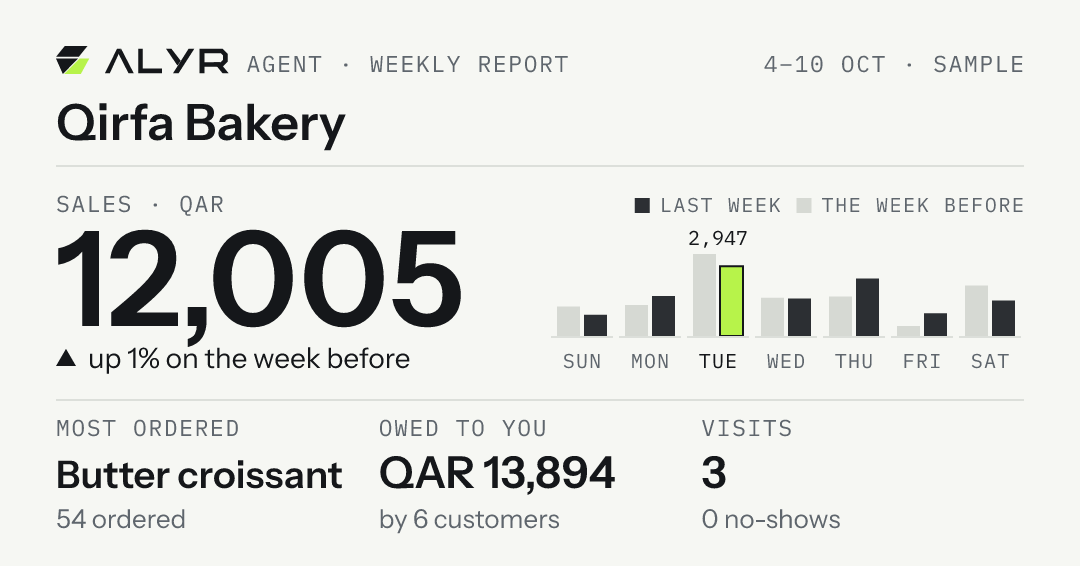
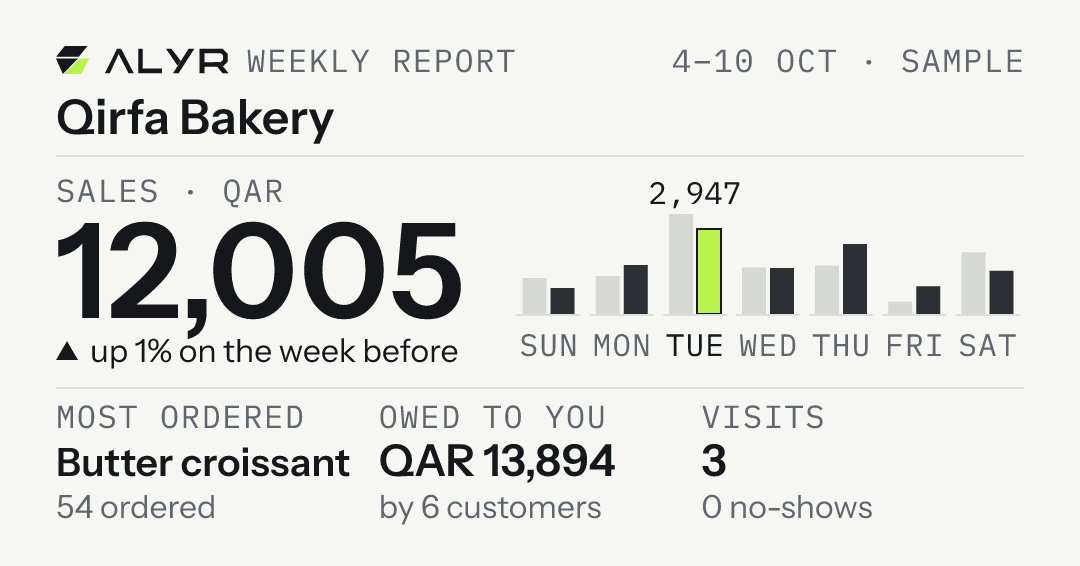
ALY-99 report card 5: readable at WhatsApp's bubble size
Every small label and sub-line about 40% larger (31 px minimum, about 9.5 px at
330 px wide), the layout re-flowed, the legend dropped, labels shortened,
Arabic day initials, Arabic widths measured as joined letters. The hero is
unchanged. Samples recaptured; a test holds the minimum size.

Changed region(s): [[0.0306, 0.1802, 0.9472, 0.9311], [0.6111, 0.0901, 0.9472, 0.1502], [0.2139, 0.0901, 0.5194, 0.1502]]

diff --git a/apps/api/src/alyr/modules/agent/card.py b/apps/api/src/alyr/modules/agent/card.py
@@ -27,6 +27,9 @@ from xml.sax.saxutils import escape
 FONTS = Path(__file__).parent / "fonts"
 W, H = 1080, 566
 M = 56  # the side margin
+# The smallest type on the card. WhatsApp shows the card about 330 px wide on a phone, so
+# 31 px here is about 9.5 px there (the founder, 17 Oct: nothing smaller is readable).
+SMALL = 31
 
 SANS = "Instrument Sans"
 ARABIC = "IBM Plex Sans Arabic"
@@ -52,6 +55,7 @@ THEMES = {
 
 RLE, LRE, PDF = "\u202b", "\u202a", "\u202c"
 _ARABIC = re.compile(r"[-ۿ]")
+ARABIC_JOINED = 0.86
 _RANGE = re.compile(r"\d+\s?[–-]\s?\d+")
 
 # The ALYR logo, point for point from `apps/web/app/_site/brand.tsx` (never redrawn).
@@ -85,8 +89,8 @@ def _font(family: str, weight: int):
 
 
 def width(text: str, family: str, size: float, weight: int = 400, spacing: float = 0) -> float:
-    """The advance width of a line, close enough to fit it: unshaped advances, so Arabic
-    is measured from its letters' base forms."""
+    """The advance width of a line, close enough to fit it: unshaped advances, with Arabic
+    letters scaled to their joined width."""
     metrics, cmap, upem = _font(family, 600 if weight >= 600 and (family, 600) in FILES
                                 else 400)
     total = 0
@@ -94,7 +98,11 @@ def width(text: str, family: str, size: float, weight: int = 400, spacing: float
         if ch in (RLE, LRE, PDF, "\u200f"):
             continue
         glyph = cmap.get(ord(ch))
-        total += metrics[glyph][0] if glyph in metrics else upem * 0.55
+        advance = metrics[glyph][0] if glyph in metrics else upem * 0.55
+        # Joined Arabic letters are narrower than their isolated forms: measured against
+        # resvg's own rendering, 0.66 to 0.84 of the isolated width. 0.86 keeps every
+        # estimate on the wide side, so a line never overflows.
+        total += advance * ARABIC_JOINED if _ARABIC.match(ch) else advance
     return total * size / upem + spacing * max(len(text) - 1, 0)
 
 
@@ -191,14 +199,14 @@ class Canvas:
 
 
 def _label(c: Canvas, x: float, y: float, s: str, room: float, anchor: str = "start",
-           size: float = 23) -> None:
+           size: float = SMALL + 1) -> None:
     """A small label: mono capitals, tracked, in English; Plex Sans Arabic, never tracked or
-    in capitals, in Arabic (brand.md)."""
+    in capitals, in Arabic (brand.md). Never smaller than `SMALL`: past that it is cut."""
     if c.rtl:
-        s, size = fit(s, ARABIC, size + 2, 18, room)
+        s, size = fit(s, ARABIC, size + 1, SMALL, room)
         c.text(x, y, s, size, c.t["ink2"], family=ARABIC, anchor=anchor)
     else:
-        s, size = fit(s.upper(), MONO, size, 16, room, spacing=1.6)
+        s, size = fit(s.upper(), MONO, size, SMALL, room, spacing=1.6)
         c.text(x, y, s, size, c.t["ink2"], family=MONO, anchor=anchor, spacing=1.6)
 
 
@@ -215,49 +223,40 @@ def svg(data: dict, theme: str = "carbon", sample: bool = False) -> str:
     week = data["week"] if rtl else data["week"].upper()
     if sample:
         week = f"{week} · عيّنة" if rtl else f"{week} · SAMPLE"
-    _label(c, W - M, 72, week, 330, anchor="end")
-    _label(c, M + logo_w + 18, 72, data["eyebrow"], W - 2 * M - logo_w - 360)
+    _label(c, W - M, 72, week, 420, anchor="end")
+    _label(c, M + logo_w + 18, 72, data["eyebrow"], W - 2 * M - logo_w - 440)
 
     # The shop's name.
-    name, size = fit(data["shop"], face, 50, 30, W - 2 * M, weight=600)
-    c.text(M, 140, name, size, t["ink"], weight=600, family=face)
-    c.line(M, 166, W - M, t["rule"])
+    name, size = fit(data["shop"], face, 48, 34, W - 2 * M, weight=600)
+    c.text(M, 134, name, size, t["ink"], weight=600, family=face)
+    c.line(M, 156, W - M, t["rule"])
 
     # The hero number, its unit and its change.
     hero = data["hero"]
-    left_room = 440
+    left_room = 430
     label = f"{hero['label']} · {hero['unit']}" if hero["unit"] else hero["label"]
-    _label(c, M, 212, label, left_room)
+    _label(c, M, 202, label, left_room)
     value, size = fit(hero["value"], SANS, 132, 72, left_room, weight=600)
-    c.text(M, 326, value, size, t["ink"], family=SANS, weight=600)
+    c.text(M, 318, value, size, t["ink"], family=SANS, weight=600)
     change = hero["change"]
     x = M
     if change["dir"] in ("up", "down"):
-        c.triangle(M, 366, 20, change["dir"] == "up", t["ink"])
-        x = M + 32
-    words, size = fit(change["text"], face, 28, 20, left_room - (x - M))
-    c.text(x, 368, words, size, t["ink"] if change["dir"] else t["ink2"], family=face)
+        c.triangle(M, 360, 22, change["dir"] == "up", t["ink"])
+        x = M + 34
+    # The change may run to the bars' edge.
+    words, size = fit(change["text"], face, SMALL + 1, SMALL, 506 - x)
+    c.text(x, 362, words, size, t["ink"] if change["dir"] else t["ink2"], family=face)
 
-    # Seven days, Sunday first, the week before as a ghost beside each bar.
+    # Seven days, Sunday first, the week before as a ghost beside each bar. No legend: at
+    # a phone's size it would be too small to read; the template's text says it.
     days = data["days"]
-    area_x, area_w = 548, W - M - 548
-    top, base = 254, 336
+    area_x = 512
+    area_w = W - M - area_x
+    top, base = 214, 314
     if days:
-        legend_y = 212
-        sw = 15
-        # Legend at the end of the line: this week's swatch, then the week before's.
-        before = data["legend"]["before"]
-        this = data["legend"]["this"]
-        lw_before = (width(before, ARABIC, 22) if rtl else
-                     width(before.upper(), MONO, 20, spacing=1.6))
-        end = W - M
-        _legend(c, end - lw_before, legend_y, before, t["ghost"], sw)
-        lw_this = (width(this, ARABIC, 22) if rtl else width(this.upper(), MONO, 20, spacing=1.6))
-        _legend(c, end - lw_before - sw - 26 - lw_this, legend_y, this, t["bar"], sw)
-
         peak = max([d["value"] or 0 for d in days] + [d["last"] or 0 for d in days] + [1])
         col = area_w / 7
-        pair = min(col - 18, 52)
+        pair = min(col - 20, 52)
         bar = (pair - 4) / 2
         for i, d in enumerate(days):
             cx = area_x + col * i + col / 2
@@ -276,34 +275,28 @@ def svg(data: dict, theme: str = "carbon", sample: bool = False) -> str:
                         and t["edge"] != "none" else "")
                 c.rect(x0 + bar + 4, base - h, bar, h, fill, edge)
                 if d["signal"] and d["text"]:
-                    c.text(x0 + pair / 2, base - max(h, ghost_h) - 9, d["text"], 20,
+                    c.text(x0 + pair / 2, base - max(h, ghost_h) - 10, d["text"], SMALL,
                            t["ink"], family=MONO, anchor="middle")
             c.line(x0 - 6, base + 1, x0 + pair + 6, t["rule"], 2)
-            day_size = 23 if rtl else 20
-            c.text(cx, 368, d["label"] if rtl else d["label"].upper(), day_size,
+            c.text(cx, 356, d["label"] if rtl else d["label"].upper(), SMALL,
                    t["ink"] if d["signal"] else t["ink2"],
                    family=ARABIC if rtl else MONO, anchor="middle",
                    spacing=0 if rtl else 1.2)
 
     # Two or three key facts on one rule.
     facts = data["facts"]
-    c.line(M, 400, W - M, t["rule"])
+    c.line(M, 388, W - M, t["rule"])
     if facts:
         col = (W - 2 * M) / len(facts)
         for i, fact in enumerate(facts):
             x = M + col * i
-            room = col - 28
-            _label(c, x, 436, fact["label"], room)
-            value, size = fit(fact["value"], face, 44, 26, room, weight=600)
-            c.text(x, 488, value, size, t["ink"], family=face, weight=600)
-            note, size = fit(fact["note"], face, 26, 18, room)
-            c.text(x, 528, note, size, t["ink2"], family=face)
+            room = col - 24
+            _label(c, x, 428, fact["label"], room)
+            value, size = fit(fact["value"], face, 44, 34, room, weight=600)
+            c.text(x, 476, value, size, t["ink"], family=face, weight=600)
+            note, size = fit(fact["note"], face, SMALL + 1, SMALL, room)
+            c.text(x, 518, note, size, t["ink2"], family=face)
     return c.svg()
-
-
-def _legend(c: Canvas, x: float, y: float, words: str, color: str, sw: float) -> None:
-    c.rect(x - sw - 10, y - sw + 1, sw, sw, color)
-    _label(c, x, y, words, 260, size=20)
 
 
 def render(data: dict, theme: str = "carbon", sample: bool = False) -> bytes:

diff --git a/apps/api/src/alyr/modules/agent/week.py b/apps/api/src/alyr/modules/agent/week.py
@@ -44,6 +44,7 @@ from alyr.modules.agent.words import (
 # an Arabic line that opens with "ALYR Chat" would run left to right without it.
 RLM = "\u200f"
 PRODUCT_OF = {"orders": "chat", "bookings": "bookings", "ledger": "accounts", "inbox": "chat"}
+DAY_INITIAL = ("ح", "ن", "ث", "ر", "خ", "ج", "س")  # Sunday to Saturday
 NO_SHOWS = (("no-show", "no-shows"), ("غياب واحد", "غيابان", "حالات غياب", "حالة غياب"))
 
 
@@ -164,16 +165,16 @@ def hero(w: Week, lang: str) -> dict:
         pct = view._pct(cur, last)
         if pct > 0:
             change = {"dir": "up", "text": T(lang, f"up {pct}% on the week before",
-                                             f"أكثر بـ{pct}% من الأسبوع الذي قبله")}
+                                             f"أكثر بـ{pct}% من الأسبوع السابق")}
         elif pct < 0:
             change = {"dir": "down", "text": T(lang, f"down {-pct}% on the week before",
-                                               f"أقل بـ{-pct}% من الأسبوع الذي قبله")}
+                                               f"أقل بـ{-pct}% من الأسبوع السابق")}
         else:
             change = {"dir": "level", "text": T(lang, "level with the week before",
-                                                "كما في الأسبوع الذي قبله")}
+                                                "كما في الأسبوع السابق")}
     else:
         change = {"dir": None, "text": T(lang, f"The week before: {before}",
-                                         f"الأسبوع الذي قبله: {before}")}
+                                         f"الأسبوع السابق: {before}")}
     return {
         "key": key, "label": label, "value": shown,
         "unit": T(lang, "QAR", "ر.ق") if is_money else None,
@@ -194,7 +195,9 @@ def days(w: Week, lang: str) -> list[dict]:
     for i, day in enumerate(chart["days"]):
         state = {"today": "past"}.get(day["state"], day["state"])
         out.append({
-            "label": DAY_SHORT[lang][i],
+            # In Arabic the day's initial, as Arabic calendars head their weeks: the
+            # names do not fit seven columns at a size a phone can read.
+            "label": DAY_INITIAL[i] if lang == "ar" else DAY_SHORT[lang][i],
             "state": state,
             "value": day["value"] if state == "past" else None,
             "last": day["last"],
@@ -224,10 +227,8 @@ def _facts_by_module(w: Week, lang: str) -> dict[str, list[dict]]:
                          "note": T(lang, f"{quantity:,} ordered", f"الكمية: {quantity:,}")})
         rows.append({"key": "came_back", "label": T(lang, "Came back", "عادوا للطلب"),
                      "value": f"{f.came_back:,}",
-                     "note": T(lang, f"{noun_after(f.came_back, who, lang)} who ordered again",
-                               f"{noun_after(f.came_back, who, lang)} " + agree(
-                                   f.came_back, "طلب مرة أخرى", "طلبا مرة أخرى",
-                                   "طلبوا مرة أخرى"))})
+                     "note": T(lang, "ordered again", agree(
+                         f.came_back, "طلب مرة أخرى", "طلبا مرة أخرى", "طلبوا مرة أخرى"))})
         if w.main != "orders":
             rows.insert(0, {"key": "orders", "label": T(lang, "Orders", "الطلبات"),
                             "value": f"{f.orders:,}", "note": money(f.sales, lang)})
@@ -238,12 +239,11 @@ def _facts_by_module(w: Week, lang: str) -> dict[str, list[dict]]:
         rows = [{
             "key": "no_shows", "label": T(lang, "No-shows", "الغياب"),
             "value": f"{f.no_shows_week:,}",
-            "note": T(lang, f"of {counted(booked, noun, lang)} due", f"من أصل {booked}"),
+            "note": T(lang, f"of {booked:,} due", f"من أصل {booked:,}"),
         }, {
-            "key": "booked_ahead", "label": T(lang, "Booked, this week", "المحجوز لهذا الأسبوع"),
+            "key": "booked_ahead", "label": T(lang, "Booked ahead", "المحجوز القادم"),
             "value": f"{f.booked_ahead:,}",
-            "note": T(lang, f"{noun_after(f.booked_ahead, noun, lang)}, next 7 days",
-                      "للأيام السبعة القادمة"),
+            "note": T(lang, "next 7 days", "خلال 7 أيام"),
         }]
         if w.main != "bookings":
             label = {"visits": T(lang, "Visits", "الزيارات"),
@@ -257,13 +257,15 @@ def _facts_by_module(w: Week, lang: str) -> dict[str, list[dict]]:
         rows = [{
             "key": "owed", "label": T(lang, "Owed to you", "المستحق لك"),
             "value": money(f.owed, lang),
-            "note": T(lang, f"by {counted(f.owing, who, lang)}", _unpaid(f.owing, who)),
+            "note": T(lang, f"by {counted(f.owing, who, lang)}",
+                      f"{counted(f.owing, who, lang)} " + agree(f.owing, "مدين", "مدينان",
+                                                                 "مدينون")),
         }]
         if w.main != "ledger":
             rows.append({"key": "collected", "label": T(lang, "Collected", "المحصَّل"),
                          "value": money(f.collected, lang),
-                         "note": T(lang, f"week before {money(f.collected_last, lang)}",
-                                   f"الأسبوع الذي قبله {money(f.collected_last, lang)}")})
+                         "note": T(lang, f"before: {money(f.collected_last, lang)}",
+                                   f"قبله: {money(f.collected_last, lang)}")})
         else:
             rows.append({"key": "over_60", "label": T(lang, "Over 60 days", "أكثر من 60 يوماً"),
                          "value": money(_over_60(f), lang),
@@ -272,7 +274,7 @@ def _facts_by_module(w: Week, lang: str) -> dict[str, list[dict]]:
     if "inbox" in f.modules:
         rows = [{"key": "new_customers", "label": T(lang, "New customers", "عملاء جدد"),
                  "value": f"{f.new_customers:,}",
-                 "note": T(lang, "wrote for the first time", "راسلوك لأول مرة")}]
+                 "note": T(lang, "first message", "أول رسالة")}]
         if w.main != "inbox":
             rows.insert(0, {"key": "wrote", "label": T(lang, "Wrote to you", "راسلوك"),
                             "value": f"{f.wrote:,}",
@@ -575,11 +577,9 @@ def card(w: Week, lang: str) -> dict:
         "dir": "rtl" if lang == "ar" else "ltr",
         "shop": w.shop[lang],
         "week": week_label(w.week_start, lang),
-        "eyebrow": T(lang, "Agent · Weekly report", "Agent · التقرير الأسبوعي"),
+        "eyebrow": T(lang, "Weekly report", "التقرير الأسبوعي"),
         "hero": hero(w, lang),
         "days": days(w, lang),
-        "legend": {"this": T(lang, "Last week", "الأسبوع الماضي"),
-                   "before": T(lang, "The week before", "الأسبوع الذي قبله")},
         "facts": key_facts(w, lang),
         "state": w.state,
     }

diff --git a/apps/api/tests/test_report_card.py b/apps/api/tests/test_report_card.py
@@ -55,6 +55,9 @@ def samples():
 @pytest.mark.parametrize("lang", ["en", "ar"])
 def test_the_card_renders_for_every_sample_in_both_languages(samples, key, lang):
     data, text = samples[(key, lang)]
+    # At WhatsApp's bubble width (about 330 px) no text is smaller than about 9.5 px.
+    sizes = [float(v) for v in re.findall(r'font-size="([\d.]+)"', card.svg(data, sample=True))]
+    assert min(sizes) >= card.SMALL and min(sizes) * 330 / card.W >= 9.4
     for theme in ("carbon", "paper"):
         png = card.render(data, theme, sample=True)
         # WhatsApp's 1.91:1 header, about 1080 px wide, well under Meta's 5 MB.
@@ -129,7 +132,7 @@ def test_a_percentage_only_when_both_weeks_count_twenty_or_more():
     assert big["value"] == "2,500" and big["unit"] == "QAR"
     arabic = week.hero(a_week(facts(orders=20, orders_last=25, sales=200000,
                                     sales_last=250000)), "ar")
-    assert arabic["change"]["text"] == "أقل بـ20% من الأسبوع الذي قبله"
+    assert arabic["change"]["text"] == "أقل بـ20% من الأسبوع السابق"
     first = week.hero(a_week(facts(started=datetime(2026, 10, 6, tzinfo=UTC), orders=30,
                                    orders_last=0)), "en")
     assert first["change"]["text"] == "First week on ALYR"
@@ -162,9 +165,9 @@ def test_the_arabic_card_is_mirrored_and_its_lines_run_right_to_left(samples):
     # Each Arabic line is a right-to-left embedding; the week's range stays left to right.
     assert "\u202b" in svg and "\u202a4–10\u202c" in svg
     # Sunday's bar is on the right: time runs right to left.
-    labels = re.findall(r'<text x="([\d.]+)"[^>]*>\u202b(أحد|سبت)\u202c</text>', svg)
+    labels = re.findall(r'<text x="([\d.]+)"[^>]*>\u202b(ح|س)\u202c</text>', svg)
     x = {name: float(at) for at, name in labels}
-    assert x["أحد"] > x["سبت"]
+    assert x["ح"] > x["س"]
     english = card.svg(samples[("salon", "en")][0])
     assert "\u202b" not in english
 

diff --git a/apps/api/src/alyr/core/templates.py b/apps/api/src/alyr/core/templates.py
@@ -157,10 +157,10 @@ CATALOGUE: dict[str, Template] = {
     "weekly_report_card": Template(
         "utility",
         "Your ALYR weekly report for {{1}}, {{2}}. {{3}} By product: {{4}}. "
-        "Next step: {{5}}. The card above shows the week day by day. "
+        "Next step: {{5}}. The card above shows each day beside the same day the week before. "
         "Send REPORT to get this report again.",
         "تقريرك الأسبوعي من ALYR لـ {{1}}، {{2}}. {{3}} حسب المنتج: {{4}}. "
-        "الخطوة التالية: {{5}}. البطاقة أعلاه تعرض الأسبوع يوماً بيوم. "
+        "الخطوة التالية: {{5}}. البطاقة أعلاه تعرض كل يوم بجانب اليوم نفسه من الأسبوع الذي قبله. "
         "أرسل «تقرير» لتصلك هذه الرسالة مرة أخرى.",
         # The fictional Qirfa Bakery's report for 4 to 10 October (`alyr.report_samples`).
         (

diff --git a/docs/agent-dashboard/12-report-card-log.md b/docs/agent-dashboard/12-report-card-log.md
@@ -14,7 +14,7 @@ ALY-99, branch `aly-99-report-card`. The founder approved the redesign on 17 Oct
   - the ALYR logo (its 45° fold planes with the Volt plane), "Agent · Weekly report", the week ("4–10 OCT"), and "SAMPLE" on the site's samples;
   - the shop's name;
   - one hero number with its unit and its change against the week before. The hero is the measure the bars draw, so they always agree: sales for a shop or restaurant, visits (jobs, appointments) for a booking business, money collected for a trader, customers who wrote for an inbox only. A percentage only when both weeks count 20 or more (A3, `view._comparable`); otherwise "The week before: 19". The first week says "First week on ALYR";
-  - seven day bars, Sunday first, the week before as a ghost bar beside each one. The busiest day is the one Volt signal, with its value. A closed day is a dashed slot;
+  - seven day bars, Sunday first, the week before as a ghost bar beside each one (no legend since stage 4). The busiest day is the one Volt signal, with its value. A closed day is a dashed slot;
   - two or three key facts, chosen by the products switched on and `business_type`: the main product's first fact, then what is owed if ALYR Accounts is on, then each other product's first. A bakery gets the most ordered item, what is owed and its tasting visits; a salon its no-shows, what is booked for the coming week and who wrote; an AC company its no-shows, what is owed and what is booked.
 - **Themes:** Carbon (the default: it stands out in a light and a dark chat alike) and Paper. Volt only for the busiest day and the logo's plane. No red or green; ▲▼ in ink.
 - **Type:** Instrument Sans for Latin and every figure, IBM Plex Sans Arabic for Arabic, IBM Plex Mono for labels in English (capitals, tracked); Arabic labels are never tracked or in capitals.
@@ -58,7 +58,23 @@ ALY-99, branch `aly-99-report-card`. The founder approved the redesign on 17 Oct
   - `apps/web/app/_agent/samples/report/{bakery,salon,homeservices}.{en,ar}.png` (Carbon) and `.paper.png` (Paper), each marked "SAMPLE";
   - `{key}.{lang}.json`: the caption, its lines, the template's values and the card's data, for the site to show the real output on a phone.
 - The samples are seeded at the Sunday moment rather than the dashboard samples' Thursday, so the coming week's bookings are still "booked". Their numbers therefore differ from the dashboard samples', which describe a different moment.
-- Renders at phone width (330 px) are in `docs/agent-dashboard/shots-report/` (not committed). At that size the hero, the shop's name and the facts' values read easily; the small labels are about 7 px, so the text under the card carries every number too, and a tap opens the card full size.
+- Renders at phone width (330 px) are in `docs/agent-dashboard/shots-report/` (not committed). Since stage 4, the smallest text there is about 9.5 px.
+
+## Stage 4 · readable at a phone's size (the founder's fix, 17 Oct)
+
+The founder approved the card with one fix: at WhatsApp's bubble size (about 330 px wide) the small labels were about 7 px and unreadable.
+- **Every small label and sub-line about 40% larger:** the smallest type is now 31 px on the card (`card.SMALL`), about 9.5 px at 330 px. Labels went from 23 to 32, sub-lines from 26 to 32, day names from 20 to 31, the busiest day's value from 20 to 31, the change line from 28 to 32. The hero number is unchanged (132).
+- **Re-flowed:** the header, the hero and the bars moved up; the fact values sit at 44.
+- **Dropped:** the legend (too small to be worth its room). The template's text now says the bars compare each day with the same day the week before.
+- **Shortened:**
+  - the eyebrow is "Weekly report", without "Agent";
+  - "Booked ahead / next 7 days";
+  - "ordered again", "of 31 due", "first message";
+  - in Arabic, «من الأسبوع السابق» and «عميلان مدينان».
+- **Arabic day names** are their initials (ح ن ث ر خ ج س), as Arabic calendars head their weeks. The names did not fit seven columns at a readable size.
+- **Measuring Arabic:** joined letters turned out 0.66 to 0.84 as wide as the isolated forms `width()` measured, so lines were cut too early. They are now scaled by 0.86, checked against resvg's own renders.
+- **A new test** fails if any text on any sample card is under 31 px.
+- The samples and the phone-width shots in `shots-report/` were captured again.
 
 ## Checks
 

diff --git a/docs/decisions.md b/docs/decisions.md
@@ -671,7 +671,7 @@ There is no separate Pay product: payment links stay a module of Chat and Bookin
 **Date** 17 Oct 2026 · **Status** Accepted (founder, 17 Oct, in conversation: the redesign was approved) · Linear ALY-99 · Updates D-030
 
 **The decision.** The weekly report on WhatsApp is a branded card image with about eight lines of text under it, both drawn from ALYR Agent's engine, so the report, the card and the dashboard never disagree. Build notes in `docs/agent-dashboard/12-report-card-log.md`.
-- **The card** (1080 × 566, WhatsApp's 1.91:1 header): the shop and the week; one hero number with its change against the week before, the same days, a percentage only when both weeks count 20 or more; seven day bars with the week before as a ghost and the busiest day as the one Volt signal; two or three key facts chosen by the products switched on and the type of business. Carbon by default, Paper as well; Instrument Sans, IBM Plex Sans Arabic, IBM Plex Mono and the logo's 45° fold; mirrored in Arabic. Drawn on the server with resvg (`resvg-py`, free), with every Arabic line in a right-to-left embedding, since resvg lays lines out left to right. The fonts are embedded under the SIL Open Font Licence.
+- **The card** (1080 × 566, WhatsApp's 1.91:1 header): the shop and the week; one hero number with its change against the week before, the same days, a percentage only when both weeks count 20 or more; seven day bars with the week before as a ghost and the busiest day as the one Volt signal; two or three key facts chosen by the products switched on and the type of business. No text smaller than 31 px, about 9.5 px at WhatsApp's bubble width (the founder's fix, 17 Oct). Carbon by default, Paper as well; Instrument Sans, IBM Plex Sans Arabic, IBM Plex Mono and the logo's 45° fold; mirrored in Arabic. Drawn on the server with resvg (`resvg-py`, free), with every Arabic line in a right-to-left embedding, since resvg lays lines out left to right. The fonts are embedded under the SIL Open Font Licence.
 - **The text:** a summary by the dashboard's rules, one line per product with the business's main product first (a bakery's report no longer opens with credit accounts), what ALYR did for the business, and one next step with its rule from the dashboard's own cards. WhatsApp's bold and italics. Arabic from whole templates with agreement, every line opening with a right-to-left mark.
 - **Sending.** Inside the 24-hour window, the card as an ordinary image with the text as its caption: no template needed. Outside it, the text-only `weekly_report` template stays until Meta approves the new `weekly_report_card` (utility, an image header and five blanks) and `ALYR_REPORT_CARD_TEMPLATE` is set to `true`; REPORT always brings the card. The image is kept beside its message (`message_media`, row-level security) and uploaded through Meta's Media API when the message is sent, so no image is hosted in public. Media IDs expire after 30 days on Meta's side.
 - **Unchanged from D-030:** the day and hour, who receives it, the stored sections per product, the workspace API and the owners' email (still the sectioned text).
